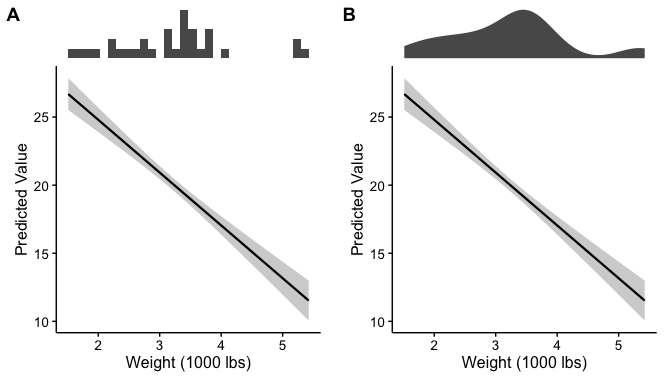
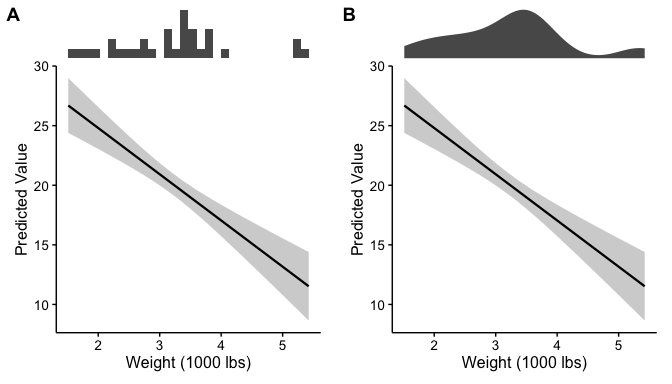
Default GAM ribbons to 95%, not the +/- 1 SE band
The default ribbon was +/- 1 SE, roughly 68%, inherited from this
package's GAM-only origins and kept for backward compatibility. On one
test smooth that is a width of 0.104, against 0.207 for mgcv::plot.gam
(+/- 2 SE) and 0.203 for gratia::draw (95%) -- half of what both of the
packages this one sits between actually draw.

A reader seeing a ribbon on a GAM smooth assumes 95%, and a caption
saying otherwise does not travel with the figure into a manuscript. That
is exactly the quiet misreading this package exists to prevent: the rug
is there so nobody over-reads a curve, and the ribbon was under-reporting
the uncertainty by half.

Backward compatibility was a real argument and it lost. The package has
been renamed, its scope has widened well past GAMs, and it has not
reached 1.0 -- if a default was going to change, this was the moment.

interval = "se" still gives the narrow band, now as an explicit request.
plotSmooths() pins it, because its whole contract is that old code keeps
drawing what it always drew; a test asserts it stays byte-identical to
plotEffects(interval = "se").

The change surfaced a real bug. With interval = "ci" the response path
tries the bounded invlink construction first, and for a class that does
not support it the discarded attempt had already emitted its warnings --
so a caller saw the same complaint twice about one plot. Warnings from
that attempt are now held and only replayed if its result is kept.

diff --git a/DECISIONS.md b/DECISIONS.md
@@ -68,12 +68,33 @@ for every supported class.
 
 ## 2. Uncertainty
 
-### The default ribbon is ±1 SE, about 68%, not 95%
+### The default ribbon is a 95% pointwise interval
 
-This is the package's historical default, kept so that figures made with
-earlier versions do not silently change meaning. It is documented wherever it
-appears, because a reader who assumes 95% will misread the figure.
-`interval = "ci"` gives a conventional interval.
+Changed in 0.10.0. It was `±1 SE` — roughly 68% — inherited from the package's
+GAM-only origins and kept for backward compatibility.
+
+That was the weakest default in the package, and the reason is comparative:
+
+| | Ribbon | Width on one test smooth |
+|---|---|---|
+| `fancyfx` before 0.10.0 | ±1 SE | **0.104** (~68%) |
+| `mgcv::plot.gam()` | ±2 SE | 0.207 (~95%) |
+| `gratia::draw()` | 95% CI | 0.203 |
+
+**Half the width of what both mgcv and gratia draw.** A reader seeing a ribbon
+on a GAM smooth will assume 95%, and a caption saying otherwise does not travel
+with the figure into a manuscript. That is precisely the quiet misreading this
+package exists to prevent: the rug is there so nobody over-reads a curve, and
+the ribbon was then under-reporting the uncertainty by half.
+
+Backward compatibility was a real argument and it lost, because the package had
+already been renamed, its scope had widened well past GAMs, and it had not
+reached 1.0. If a default was going to change, that was the moment.
+
+`interval = "se"` still gives the narrow band — now as an explicit request
+rather than a silent default. `plotSmooths()`, the deprecated GAM-only
+ancestor, **pins `interval = "se"`**: its entire contract is that old code keeps
+drawing what it always drew, so it did not follow the change.
 
 ### Simultaneous bands for GAM smooths
 

diff --git a/README.md b/README.md
@@ -387,10 +387,12 @@ held at representative values. `fancyfx` labels the y axis with
 whichever it computed, and you should not compare them as though they
 were on the same footing.
 
-The default `interval = "se"` ribbon spans roughly 68%, not 95% — it is
-this package’s historical default, kept so existing figures do not
-silently change. Pass `interval = "ci"` for a conventional confidence
-interval.
+The default ribbon is a **95% pointwise interval**, matching
+`mgcv::plot.gam()` (which draws ±2 SE) and `gratia::draw()`. Until
+version 0.10.0 this package drew ±1 SE — roughly 68%, half the width of
+both, and a width most readers would assume was 95%. Pass
+`interval = "se"` for that narrower band, or `interval = "simultaneous"`
+on a GAM smooth for a band covering the whole curve.
 
 See `vignette("fancyfx")` for the full discussion.
 
@@ -411,8 +413,8 @@ migrating is a rename and nothing more.
 
 Several defaults here are deliberate rather than conventional —
 evaluation data being required, `re.form = NA` for mixed models,
-`na.rm = FALSE` when summarising an ensemble, a `±1 SE` ribbon rather
-than 95%. Each has a reason, and the reasons are gathered in
+`na.rm = FALSE` when summarising an ensemble, the choice of a 95% ribbon
+over `±1 SE`. Each has a reason, and the reasons are gathered in
 [DECISIONS.md](DECISIONS.md) with the measurements behind them, so a
 choice can be looked up and defended without hunting through help pages.
 
